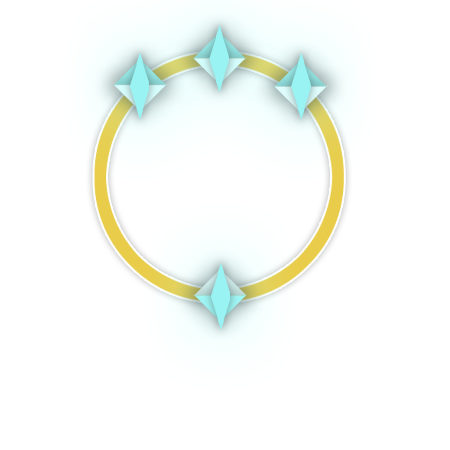
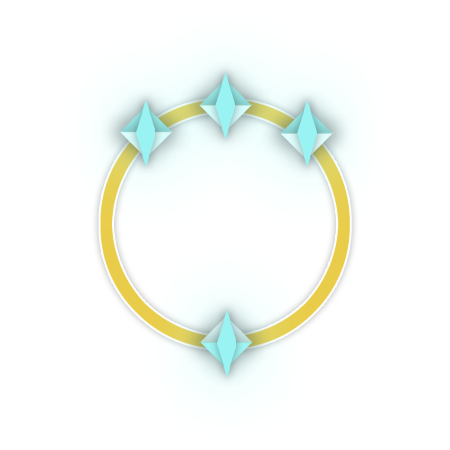
Some Changes
added the tournament section to homepage also added a box-shadow to my navigation bar.

Changed region(s): [[0.1867, 0.0311, 0.8089, 0.8711]]

diff --git a/HOMEPAGELOGGEDIN.css b/HOMEPAGELOGGEDIN.css
@@ -5,11 +5,13 @@
     font-family: sans-serif;
 }
 .nav-bar {
+    box-shadow: 0px 0px 5px black;
     overflow: hidden;
     display: flex;
     justify-content: space-around;
     align-items: center;
-    height: 80px;
+    height: 85px;
+    padding-bottom: 10px;
     margin: 0 auto;
     width: 100%;
     font-family: sans-serif;
@@ -221,7 +223,7 @@
     gap: 35px;
     width: 100%;
     height: auto;
-    padding: 20px 15px;
+    padding: 10vh 10vh;
     margin: 0 auto;
 
 }
@@ -272,7 +274,7 @@
 .te1username {
     color: #2c2c2c;
     font-size: 5vh;
-    letter-spacing: 5px;
+    letter-spacing: 8px;
 }
 .te1-membership {
     font-family: 'Times New Roman', Times, serif;
@@ -291,11 +293,84 @@
 .firstplace-badgecontainer {
     position: absolute;
     top: 0;
-    margin-top: -50px;
+    margin-top: -8vh;
 }
 .firstbadge {
     height: 350px;
 }
+
+/* tournaments section */ 
+.sectionTournaments {
+    background-color: ;
+    margin-top: 10vh;
+    width: 100%;
+    height: 700px;
+    display: flex;
+    justify-content: center;
+    flex-wrap: wrap;
+}
+.container--tournaments {
+    padding: 15px 15px;
+    display: flex;
+    flex-wrap: wrap;
+    background-color: ;
+    height: 600px;
+    width: 90%;
+    margin-top: 20px;
+    margin-bottom: 50px;
+
+}
+.sectionTournaments .container--tournaments {
+    display: flex;
+    justify-content: center;
+    align-items: center;
+    
+}
+.sectionTournaments h1{
+    padding-top: 5px;
+    margin-top: 10px;
+    color: black;
+    text-align: center;
+    font-size: 35px;
+    font-weight: bold;
+    font-family: sans-serif;
+}
+.flex-tournament {
+    background-color: #222;
+    margin: 5px 10px;
+    width: 400px;
+    height: 250px;
+    border-radius: 25px;
+    display: flex;
+    flex-wrap: wrap;
+}
+.sectionTournaments p {
+    color: rgba(162, 0, 0, 1);
+    font-size: 10px;
+    font-family: sans-serif;
+    float: right;
+    padding: 0;
+}
+.sectionTournaments p:hover {
+    cursor: pointer;
+}
+.flex-tournament .vanguardimg {
+    opacity: 1;
+    object-fit: cover;
+    width: 400px;
+    height: 250px;
+    border-radius: 25px;
+}
+.flex-tournament .vanguardimg:hover {
+    border-color:white;
+    border-width: 1px;
+    border-style: solid;
+    box-shadow: 0px 0px 10px black;
+    cursor: pointer;
+    transform: scale(1.05);
+    transition: all 0.4s ease-in;
+}
+
 
 /* FOOTER */
 

diff --git a/HOMEPAGELOGGEDIN.html b/HOMEPAGELOGGEDIN.html
@@ -117,6 +117,38 @@
             </div>
         </div>
     </section>
+
+    <section class="sectionTournaments">
+        <h1>TOURNAMENTS</h1>
+        <div class="container--tournaments">
+            <div class="flex-tournament">
+                <img class="vanguardimg" src="images/vanguardimg2.jpg" alt="Tournament">
+            </div>
+            <div class="flex-tournament">
+                <img class="vanguardimg" src="images/vanguardimg2.jpg" alt="Tournament">
+            </div>
+            <div class="flex-tournament">
+                <img class="vanguardimg" src="images/vanguardimg2.jpg" alt="Tournament">
+            </div>
+            <div class="flex-tournament">
+                <img class="vanguardimg" src="images/vanguardimg2.jpg" alt="Tournament">
+            </div>
+            <div class="flex-tournament">
+                <img class="vanguardimg" src="images/vanguardimg2.jpg" alt="Tournament">
+            </div>
+            <div class="flex-tournament">
+                <img class="vanguardimg" src="images/vanguardimg2.jpg" alt="Tournament">
+            </div>
+            <div class="flex-tournament">
+                <img class="vanguardimg" src="images/vanguardimg2.jpg" alt="Tournament">
+            </div>
+            <div class="flex-tournament">
+                <img class="vanguardimg" src="images/vanguardimg2.jpg" alt="Tournament">
+            </div>
+            
+        </div>
+    </section>
+
     <footer>
         <div class="footer-container">
             <div class="rights-reserved">

diff --git a/Pages/GAMESPAGE/gamespage-loggedin.html b/Pages/GAMESPAGE/gamespage-loggedin.html
@@ -88,6 +88,10 @@
                 <div class="item1"><img class = "title-img" src="images/callofdutyvanguard.png"></div>
                 <div class="item1"><img class = "title-img" src="images/warzonepacific.png"></div>
                 <div class="item1"><img class = "title-img" src="images/fortnite.png"></div>
+                <div class="item1"><img class = "title-img" src="images/mwii.png"></div>
+                <div class="item1"><img class = "title-img" src="images/callofdutyvanguard.png"></div>
+                <div class="item1"><img class = "title-img" src="images/warzonepacific.png"></div>
+                <div class="item1"><img class = "title-img" src="images/fortnite.png"></div>
             </div>
         </div>
     </section>

diff --git a/Pages/GAMESPAGE/gamespage-loggedin.css b/Pages/GAMESPAGE/gamespage-loggedin.css
@@ -150,7 +150,7 @@
     margin: 0 auto;
 }
 .title-img {
-    height: 420px;
+    height: 350px;
 }
 
 /* FOOTER */
